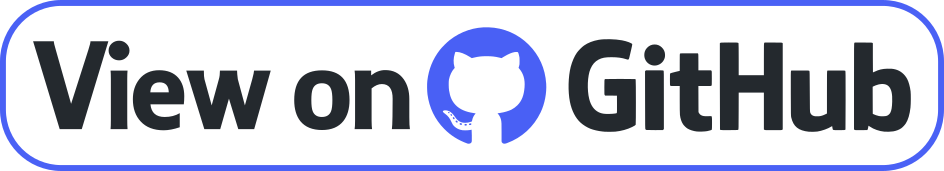
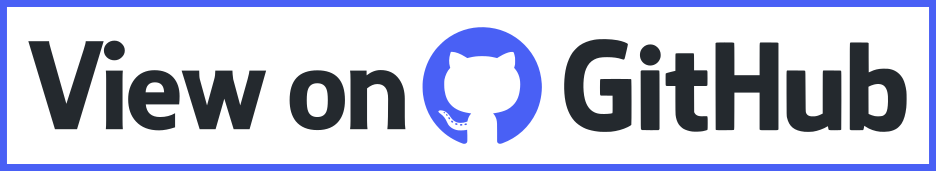
added buttons and testing toc

Changed region(s): [[0.0, 0.0, 1.0, 1.0], [0.6506, 0.2339, 0.6816, 0.2632]]

diff --git a/portfolio/miniprojects.md b/portfolio/miniprojects.md
@@ -106,6 +106,7 @@ sitemap: false
   margin-left: auto;
   margin-right: auto;
   center;
+  width: 175px;
 }
 
 .button:hover{
@@ -117,16 +118,36 @@ sitemap: false
 
 </style>
 
-
-* This unordered list will be replaced by the table of contents
-{:toc}
-
-
-
-
+* [Rock Paper Scissors Image Classification](#rps)
+{:.toc}
 
 This page is still under construction. Check back soon!
 {:.note}
+
+
+<a class="anchor" id="rps"></a>
+<p style="display: inline;">
+  <b>
+  <a href="/portfolio/miniprojects/rps_classification/">Rock Paper Scissors Image Classification</a>
+  </b>
+  <img src="/assets/icons/python.png" width="100">
+  <ul><li style="list-style-type: none;">
+  Lorem ipsum dolor sit amet, consectetur adipiscing elit, sed do eiusmod tempor incididunt ut labore et dolore magna aliqua. Ut enim ad minim veniam, quis nostrud exercitation ullamco laboris nisi ut aliquip ex ea commodo consequat. Duis aute irure dolor in reprehenderit in voluptate velit esse cillum dolore eu fugiat nulla pariatur. Excepteur sint occaecat cupidatat non proident, sunt in culpa qui officia deserunt mollit anim id est laborum.
+  <div class="row">
+    <div class="column50">
+      <a href="/portfolio/miniprojects/rps_classification/">
+        <img src="/assets/img/project_button.png" alt="View Project" class="button">
+      </a>
+    </div>
+    <div class="column50">
+      <a href="https://github.com/ryanlonergan/portfolio_repo/tree/master/rps_classification" target="_blank">
+        <img src="/assets/img/github_button.png" class="button" alt="View on GitHub">
+      </a>
+    </div>
+    </li></ul></p>
+  </div>
+
+
 
 <br>
 
@@ -134,39 +155,72 @@ This page is still under construction. Check back soon!
 
 <br>
 
-### Project Links
-
 The pages for these projects are not fully finished. I am just linking them now in case someone is curious about my work. Check back later if you would like to see the completed versions.
 {:.note}
 
-- <a href="/portfolio/miniprojects/rps_classification/">Rock Paper Scissors Image Classification</a>
-  - Lorem ipsum dolor sit amet, consectetur adipiscing elit, sed do eiusmod tempor incididunt ut labore et dolore magna aliqua. Ut enim ad minim veniam, quis nostrud exercitation ullamco laboris nisi ut aliquip ex ea commodo consequat. Duis aute irure dolor in reprehenderit in voluptate velit esse cillum dolore eu fugiat nulla pariatur. Excepteur sint occaecat cupidatat non proident, sunt in culpa qui officia deserunt mollit anim id est laborum.
+
+<p style="display: inline;">
+  <b>
+  <a href="/portfolio/miniprojects/rps_classification/">Rock Paper Scissors Image Classification</a>
+  </b>
+  <img src="/assets/icons/python.png" width="100">
+  <ul><li style="list-style-type: none;">
+  Lorem ipsum dolor sit amet, consectetur adipiscing elit, sed do eiusmod tempor incididunt ut labore et dolore magna aliqua. Ut enim ad minim veniam, quis nostrud exercitation ullamco laboris nisi ut aliquip ex ea commodo consequat. Duis aute irure dolor in reprehenderit in voluptate velit esse cillum dolore eu fugiat nulla pariatur. Excepteur sint occaecat cupidatat non proident, sunt in culpa qui officia deserunt mollit anim id est laborum.
   <div class="row">
     <div class="column50">
-      <a href="https://github.com/ryanlonergan/portfolio_repo/tree/master/rps_classification" target="_blank">
-        <img src="/assets/img/github_button.png" width="200" alt="View on GitHub" class="button">
+      <a href="/portfolio/miniprojects/rps_classification/">
+        <img src="/assets/img/project_button.png" alt="View Project" class="button">
       </a>
     </div>
     <div class="column50">
       <a href="https://github.com/ryanlonergan/portfolio_repo/tree/master/rps_classification" target="_blank">
-        <img src="/assets/img/github_button.png" width="200" class="button" />
+        <img src="/assets/img/github_button.png" class="button" alt="View on GitHub">
       </a>
     </div>
   </div>
+</li></ul></p>
 
-- <a href="/portfolio/miniprojects/iris_classification/">Iris Classification</a>
-  - Lorem ipsum dolor sit amet, consectetur adipiscing elit, sed do eiusmod tempor incididunt ut labore et dolore magna aliqua. Ut enim ad minim veniam, quis nostrud exercitation ullamco laboris nisi ut aliquip ex ea commodo consequat. Duis aute irure dolor in reprehenderit in voluptate velit esse cillum dolore eu fugiat nulla pariatur. Excepteur sint occaecat cupidatat non proident, sunt in culpa qui officia deserunt mollit anim id est laborum.
-  <br>
-  <a href="https://github.com/ryanlonergan/portfolio_repo/tree/master/iris_classification" target="_blank">
-    <img src="/assets/img/github_button.png" width="200" alt="View on GitHub" class="button">
-  </a>
+
+#### <a href="/portfolio/miniprojects/iris_classification/">Iris Classification</a> &nbsp;&nbsp;&nbsp;
+<img src="/assets/icons/python.png" width="100">
+
+<p style="display: inline;">
+  <b>
+  <a href="/portfolio/miniprojects/iris_classification/">Iris Classification</a>
+  <img src="/assets/icons/python.png" width="100">
+  </b>
+  <ul><li style="list-style-type: none;">
+    This project examined the iris dataset and explored different methods for classification, including: a basic decision tree classifier, Random Forest, AdaBoost and Gradient Boosting. It also examined different hyper-parameters to find the best model through GridSearchCV.
+  <div class="row">
+    <div class="column50">
+      <a href="/portfolio/miniprojects/iris_classification/">
+        <img src="/assets/img/project_button.png" alt="View Project" class="button">
+      </a>
+    </div>
+    <div class="column50">
+      <a href="https://github.com/ryanlonergan/portfolio_repo/tree/master/iris_classification" target="_blank">
+        <img src="/assets/img/github_button.png" class="button" alt="View on GitHub">
+      </a>
+    </div>
+  </div>
+</li></ul></p>
+
+
 
 - <a href="/portfolio/miniprojects/customer_clustering/">Customer Clustering</a>
   - Lorem ipsum dolor sit amet, consectetur adipiscing elit, sed do eiusmod tempor incididunt ut labore et dolore magna aliqua. Ut enim ad minim veniam, quis nostrud exercitation ullamco laboris nisi ut aliquip ex ea commodo consequat. Duis aute irure dolor in reprehenderit in voluptate velit esse cillum dolore eu fugiat nulla pariatur. Excepteur sint occaecat cupidatat non proident, sunt in culpa qui officia deserunt mollit anim id est laborum.
-  <br>
-  <a href="https://github.com/ryanlonergan/portfolio_repo/tree/master/customer_clustering" target="_blank">
-    <img src="/assets/img/github_button.png" width="200" alt="View on GitHub" class="button" />
-  </a>
+  <div class="row">
+    <div class="column50">
+      <a href="/portfolio/miniprojects/customer_clustering/" target="_blank">
+        <img src="/assets/img/project_button.png" width="200" alt="View Project" class="button">
+      </a>
+    </div>
+    <div class="column50">
+      <a href="https://github.com/ryanlonergan/portfolio_repo/tree/master/customer_clustering" target="_blank">
+        <img src="/assets/img/github_button.png" width="200" class="button" alt="View on GitHub">
+      </a>
+    </div>
+  </div>
 
 
 ### Description
